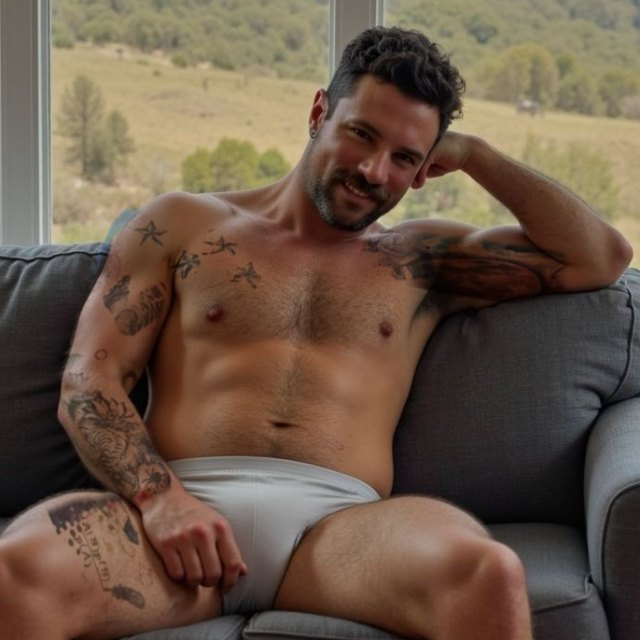
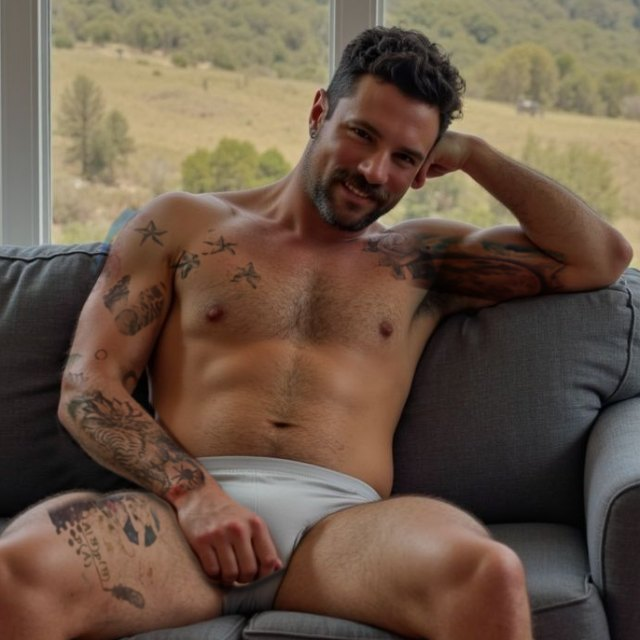
Testimonial: bolder design, fixed phone alignment; About: hand moved in the underwear photo
Testimonial
- A large drawn opening quote mark (inline SVG) sits above the quote, replacing the inline quote marks.
- The quote is now Figtree 800 (26px phone, 30px tablet, 40px expanded/desktop) instead of Bitter 300.
- Mark, quote and attribution share one left edge. .blockquote-hanging is gone: its
  hanging-punctuation and negative text-indent both applied in Safari and pushed the first
  line left of the rest.
- Phones use the page's normal 24px side padding (was 48px).

About
- about-underwear.jpg: the right forearm and hand are shifted so the hand sits partly in
  front of the crotch.

Claude-Session: https://claude.ai/code/session_01MA27UpKEFUfjS4Mxy8DgQo

Changed region(s): [[0.0938, 0.5938, 0.4688, 0.9688]]

diff --git a/src/components/Testimonial.jsx b/src/components/Testimonial.jsx
@@ -9,20 +9,24 @@ export default function Testimonial() {
       ref={ref}
       className={`bg-brand-yellow${visible ? ' in-view' : ''}`}
     >
-      <div className="page-container px-12 py-[160px] tablet:px-16 expanded:px-24 desktop:px-24">
+      <div className="page-container px-6 py-[160px] tablet:px-16 expanded:px-24 desktop:px-24">
 
-        {/* Inner container — centered, 66% width, quote + attribution */}
-        <div className="mx-auto max-w-[680px] tablet:max-w-[540px] w-full flex flex-col gap-6">
+        {/* Inner container — centered column: big quote mark, quote, attribution, all on one left edge */}
+        <div className="mx-auto max-w-[720px] tablet:max-w-[540px] w-full flex flex-col gap-6">
 
-          <blockquote className="reveal-heading blockquote-hanging font-bitter font-light text-20 leading-1-5 text-cobalt-dark
-                                 tablet:text-24
-                                 expanded:text-32 desktop:text-32">
-            "I thought this was a joke, but I actually learned how to talk to my wife without us both
-            wanting to die. Five stars."
+          {/* The big mark stands in for the inline quote marks (.testimonial-* in index.css) */}
+          <blockquote className="reveal-heading text-cobalt-dark">
+            <svg className="testimonial-mark" viewBox="0 0 96 69" aria-hidden="true" focusable="false">
+              <path d="M0 46C0 21 14 5 37 0l4 9C29 13 23 21 22 29a20 20 0 1 1-22 17Z" />
+              <path d="M53 46C53 21 67 5 90 0l4 9C82 13 76 21 75 29a20 20 0 1 1-22 17Z" />
+            </svg>
+            <p className="testimonial-quote">
+              I thought this was a joke, but I actually learned how to talk to my wife without us both
+              wanting to die. Five stars.
+            </p>
           </blockquote>
 
-          {/* ml-4 (1rem) matches blockquote padding-left so attribution aligns with quote text, not the " */}
-          <div className="reveal-body flex items-center gap-4 ml-[9px] tablet:ml-[11px] expanded:ml-[14px] desktop:ml-[14px]">
+          <div className="reveal-body flex items-center gap-4">
             <img src={steveImg} alt="Steve B." className="w-[88px] h-[88px] tablet:w-[120px] tablet:h-[120px] expanded:w-[120px] expanded:h-[120px] desktop:w-[120px] desktop:h-[120px] rounded-full object-cover shrink-0" />
             <div className="flex flex-col">
               <p className="font-figtree font-bold text-14 leading-1-5 tracking-xs text-cobalt-dark

diff --git a/src/index.css b/src/index.css
@@ -375,10 +375,31 @@
 
 .about-bio-text p + p { margin-top: 12px; }
 
-.blockquote-hanging {
-  hanging-punctuation: first;  /* Safari — handles it natively */
-  padding-left: 0.45em;        /* scales with font size */
-  text-indent: -0.45em;        /* pulls only the " to the left */
+/* Testimonial — one big opening quote mark above a heavy quote.
+   (Replaces .blockquote-hanging, whose hanging-punctuation + negative text-indent both applied
+   in Safari and pushed the first line left of the rest.) */
+.testimonial-mark {           /* inline SVG, drawn in Testimonial.jsx */
+  display: block;
+  width: 84px;
+  height: auto;
+  margin-bottom: 20px;
+  fill: currentColor;
+}
+.testimonial-quote {
+  font-family: 'Figtree', sans-serif;
+  font-weight: 800;
+  font-size: 26px;
+  line-height: 1.15;
+  letter-spacing: -0.01em;
+  text-wrap: balance;
+}
+@media (min-width: 600px) {
+  .testimonial-mark  { width: 104px; margin-bottom: 24px; }
+  .testimonial-quote { font-size: 30px; }
+}
+@media (min-width: 900px) {
+  .testimonial-mark  { width: 128px; margin-bottom: 28px; }
+  .testimonial-quote { font-size: 40px; }
 }
 
 /* Accessibility — respect reduced-motion preference */
